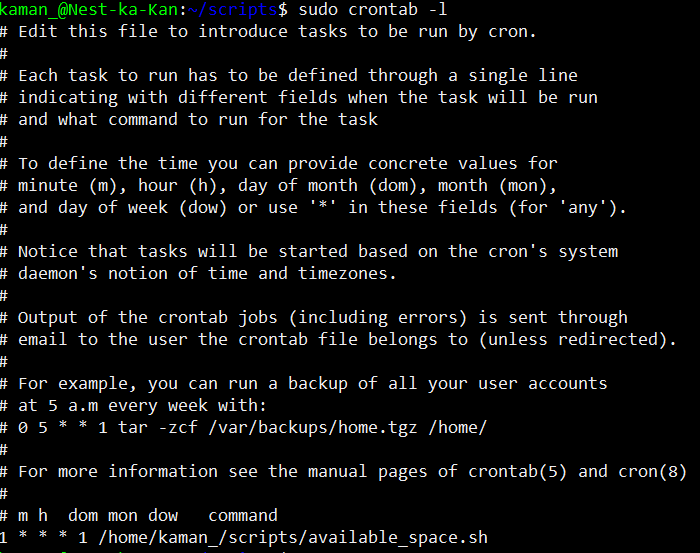
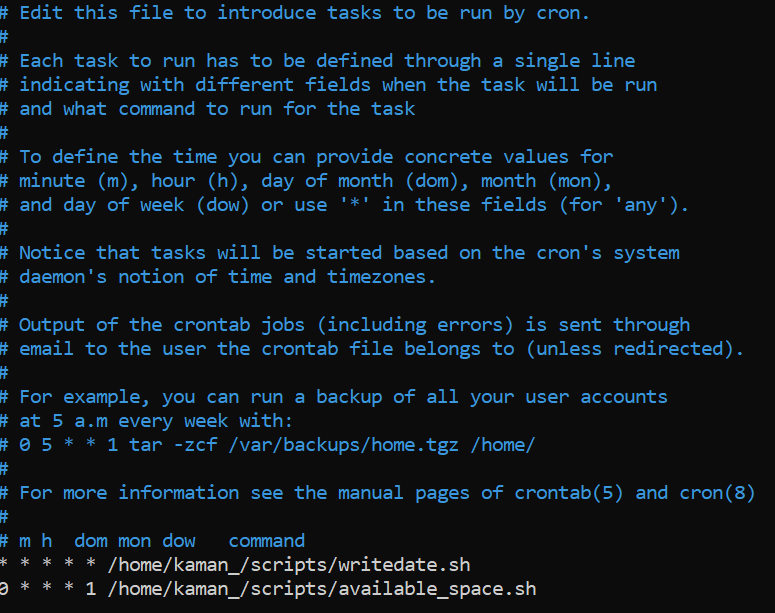
update lnx-08

Changed region(s): [[0.0, 0.0, 0.99, 0.9837]]

diff --git a/01_Linux_1/LNX-08.md b/01_Linux_1/LNX-08.md
@@ -49,16 +49,15 @@ Om deze script aan crontab toe te voegen zodat hij elke minuut zal worden uitgev
 
 ![Image](https://github.com/kaman-codes/techgrounds-kaman/blob/main/00_includes/LNX-08_screen01.PNG)
 
-Om een script weekelijks uit te laten voeren die available disk space in een file schrijft in de map /var/logs zijn root-rechten voor nodig.
+Om een script weekelijks uit te laten voeren die available disk space in een file schrijft kun je de command **logger** gebruiken. Deze schrijf de output van `df -h` naar `/var/log/syslog`
 
 script:
 ```
 #!/bin/bash
-df -h >> /var/log/available_diskspace.log
+logger `df -h`
 ```
 
-`sudo crontab -e` gebruikt om in de crontab van de root user te schrijven.
 
 ![Image](https://github.com/kaman-codes/techgrounds-kaman/blob/main/00_includes/LNX-08_screen02.PNG)
 
-`1 * * * 1` zal uitgevoerd worden op minuut 1 van elke maandag. 
+`0 * * * 1` zal uitgevoerd worden op minuut 0 van elke maandag. 
